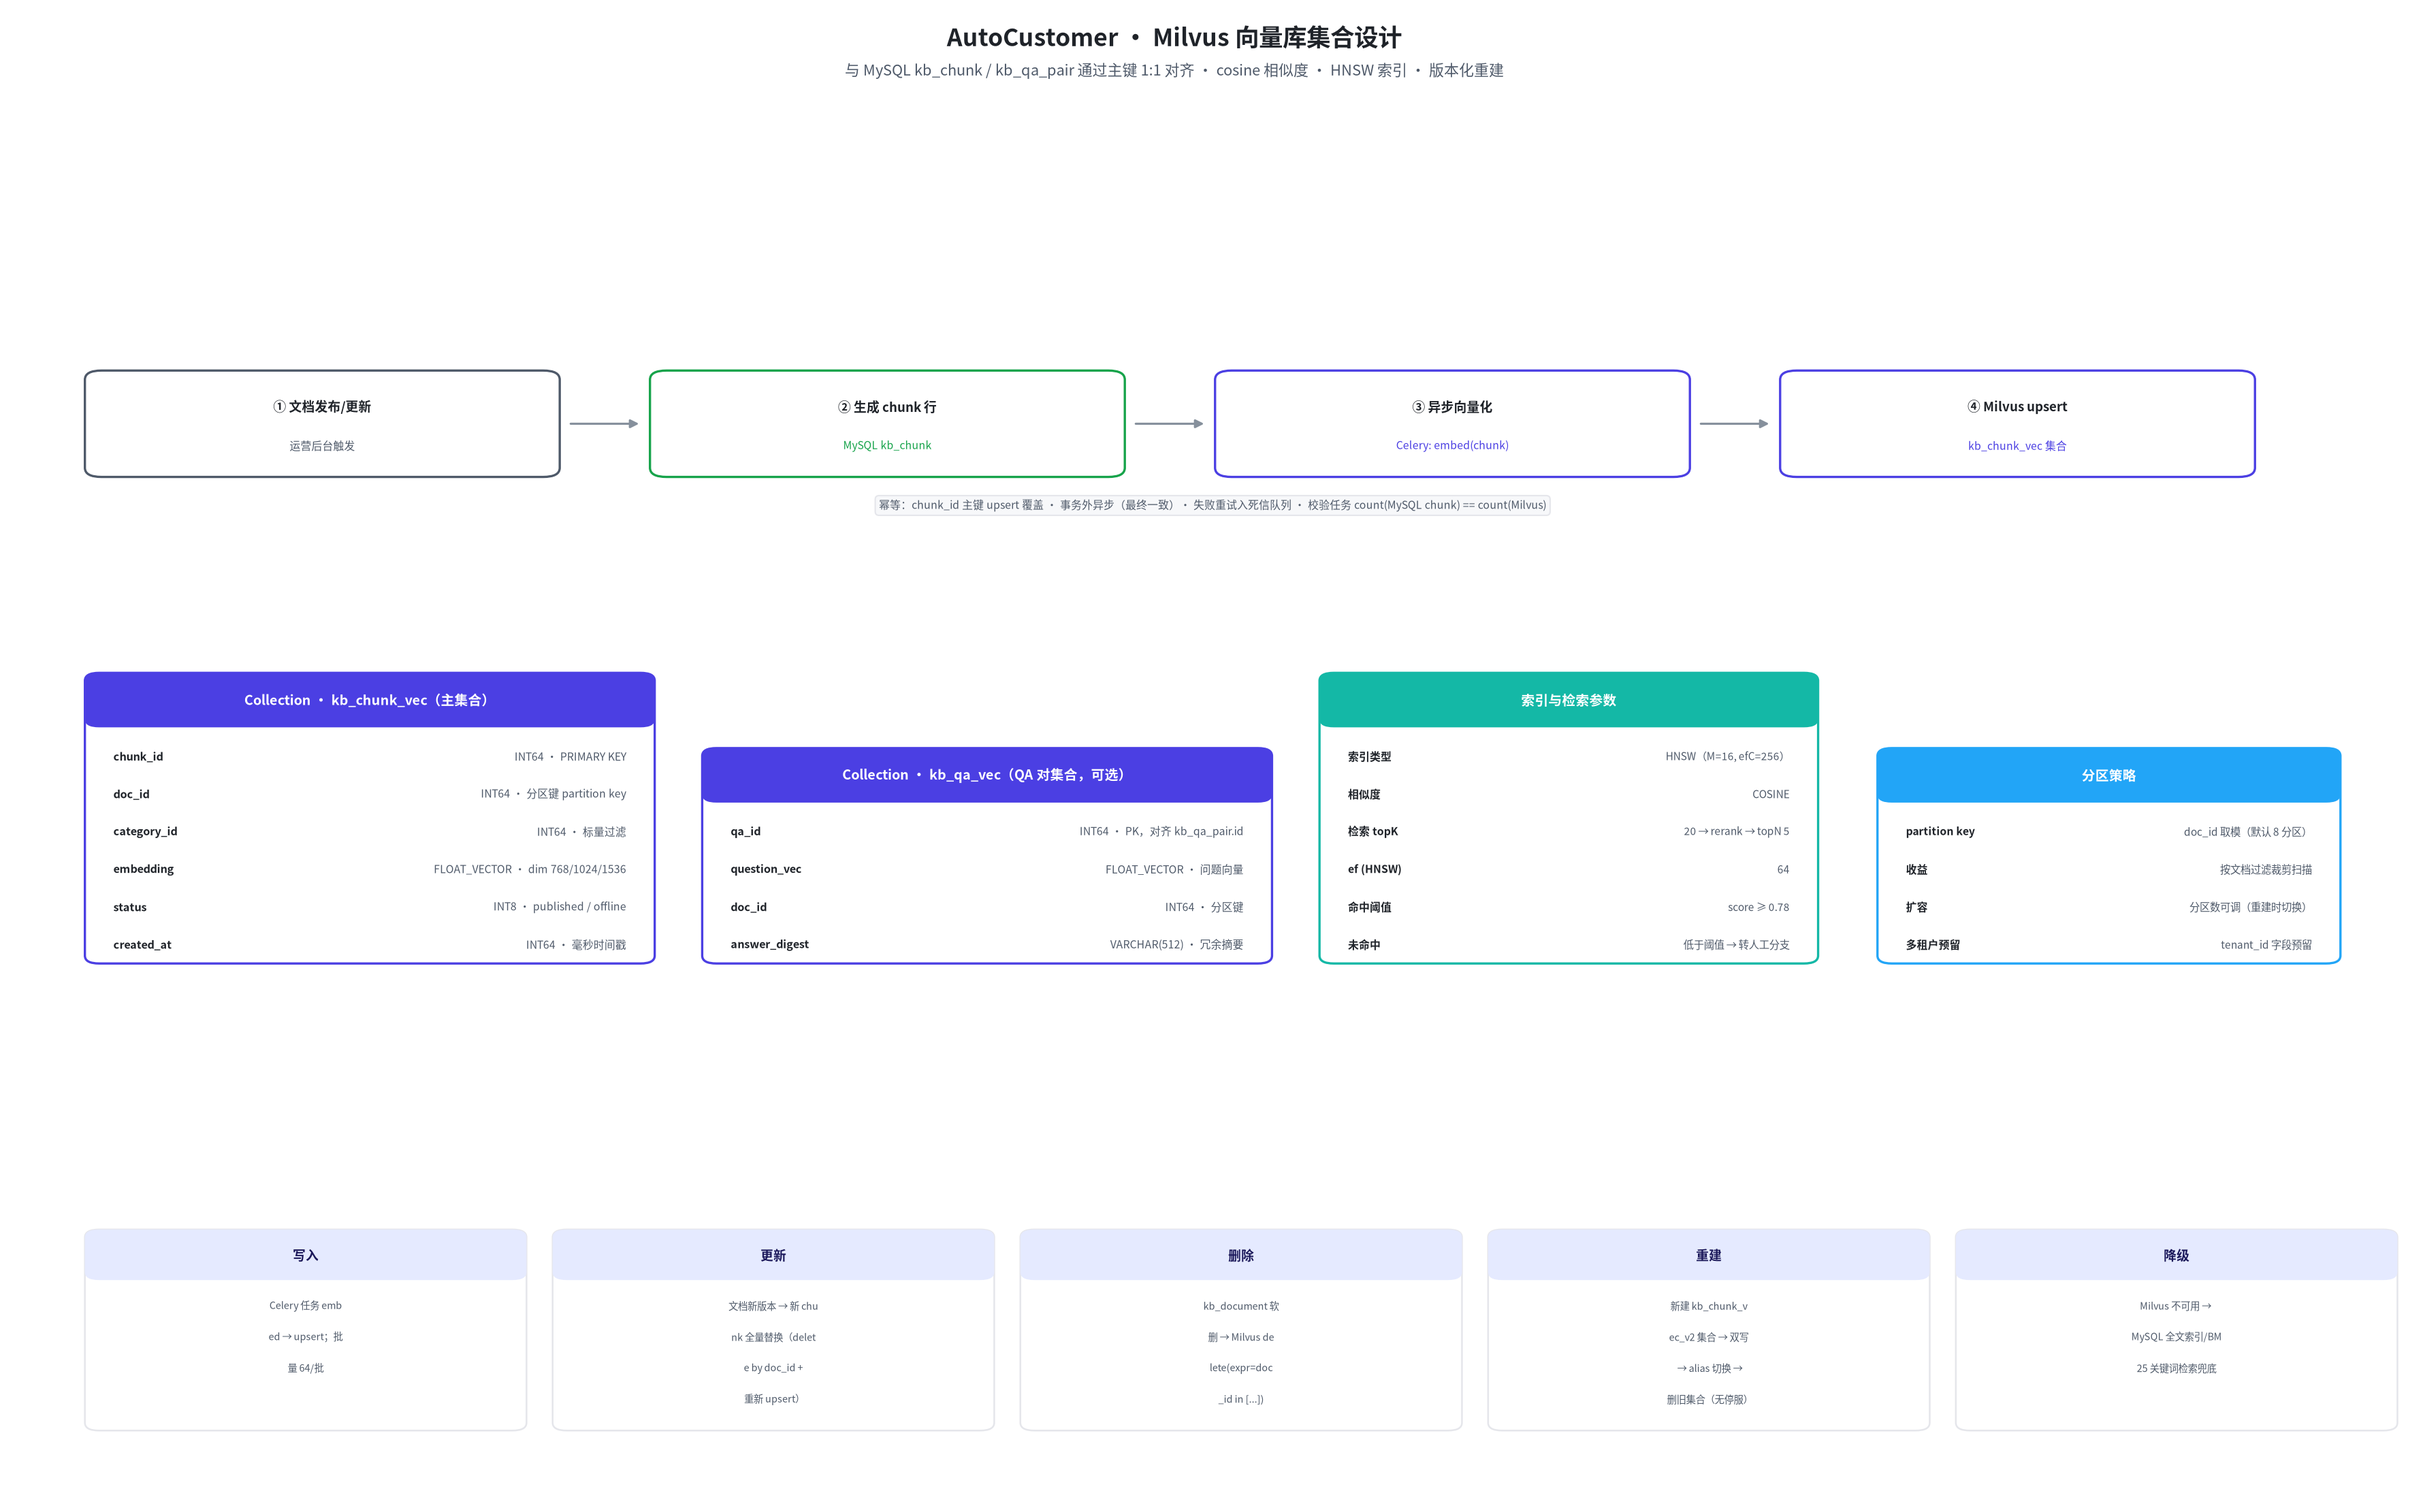
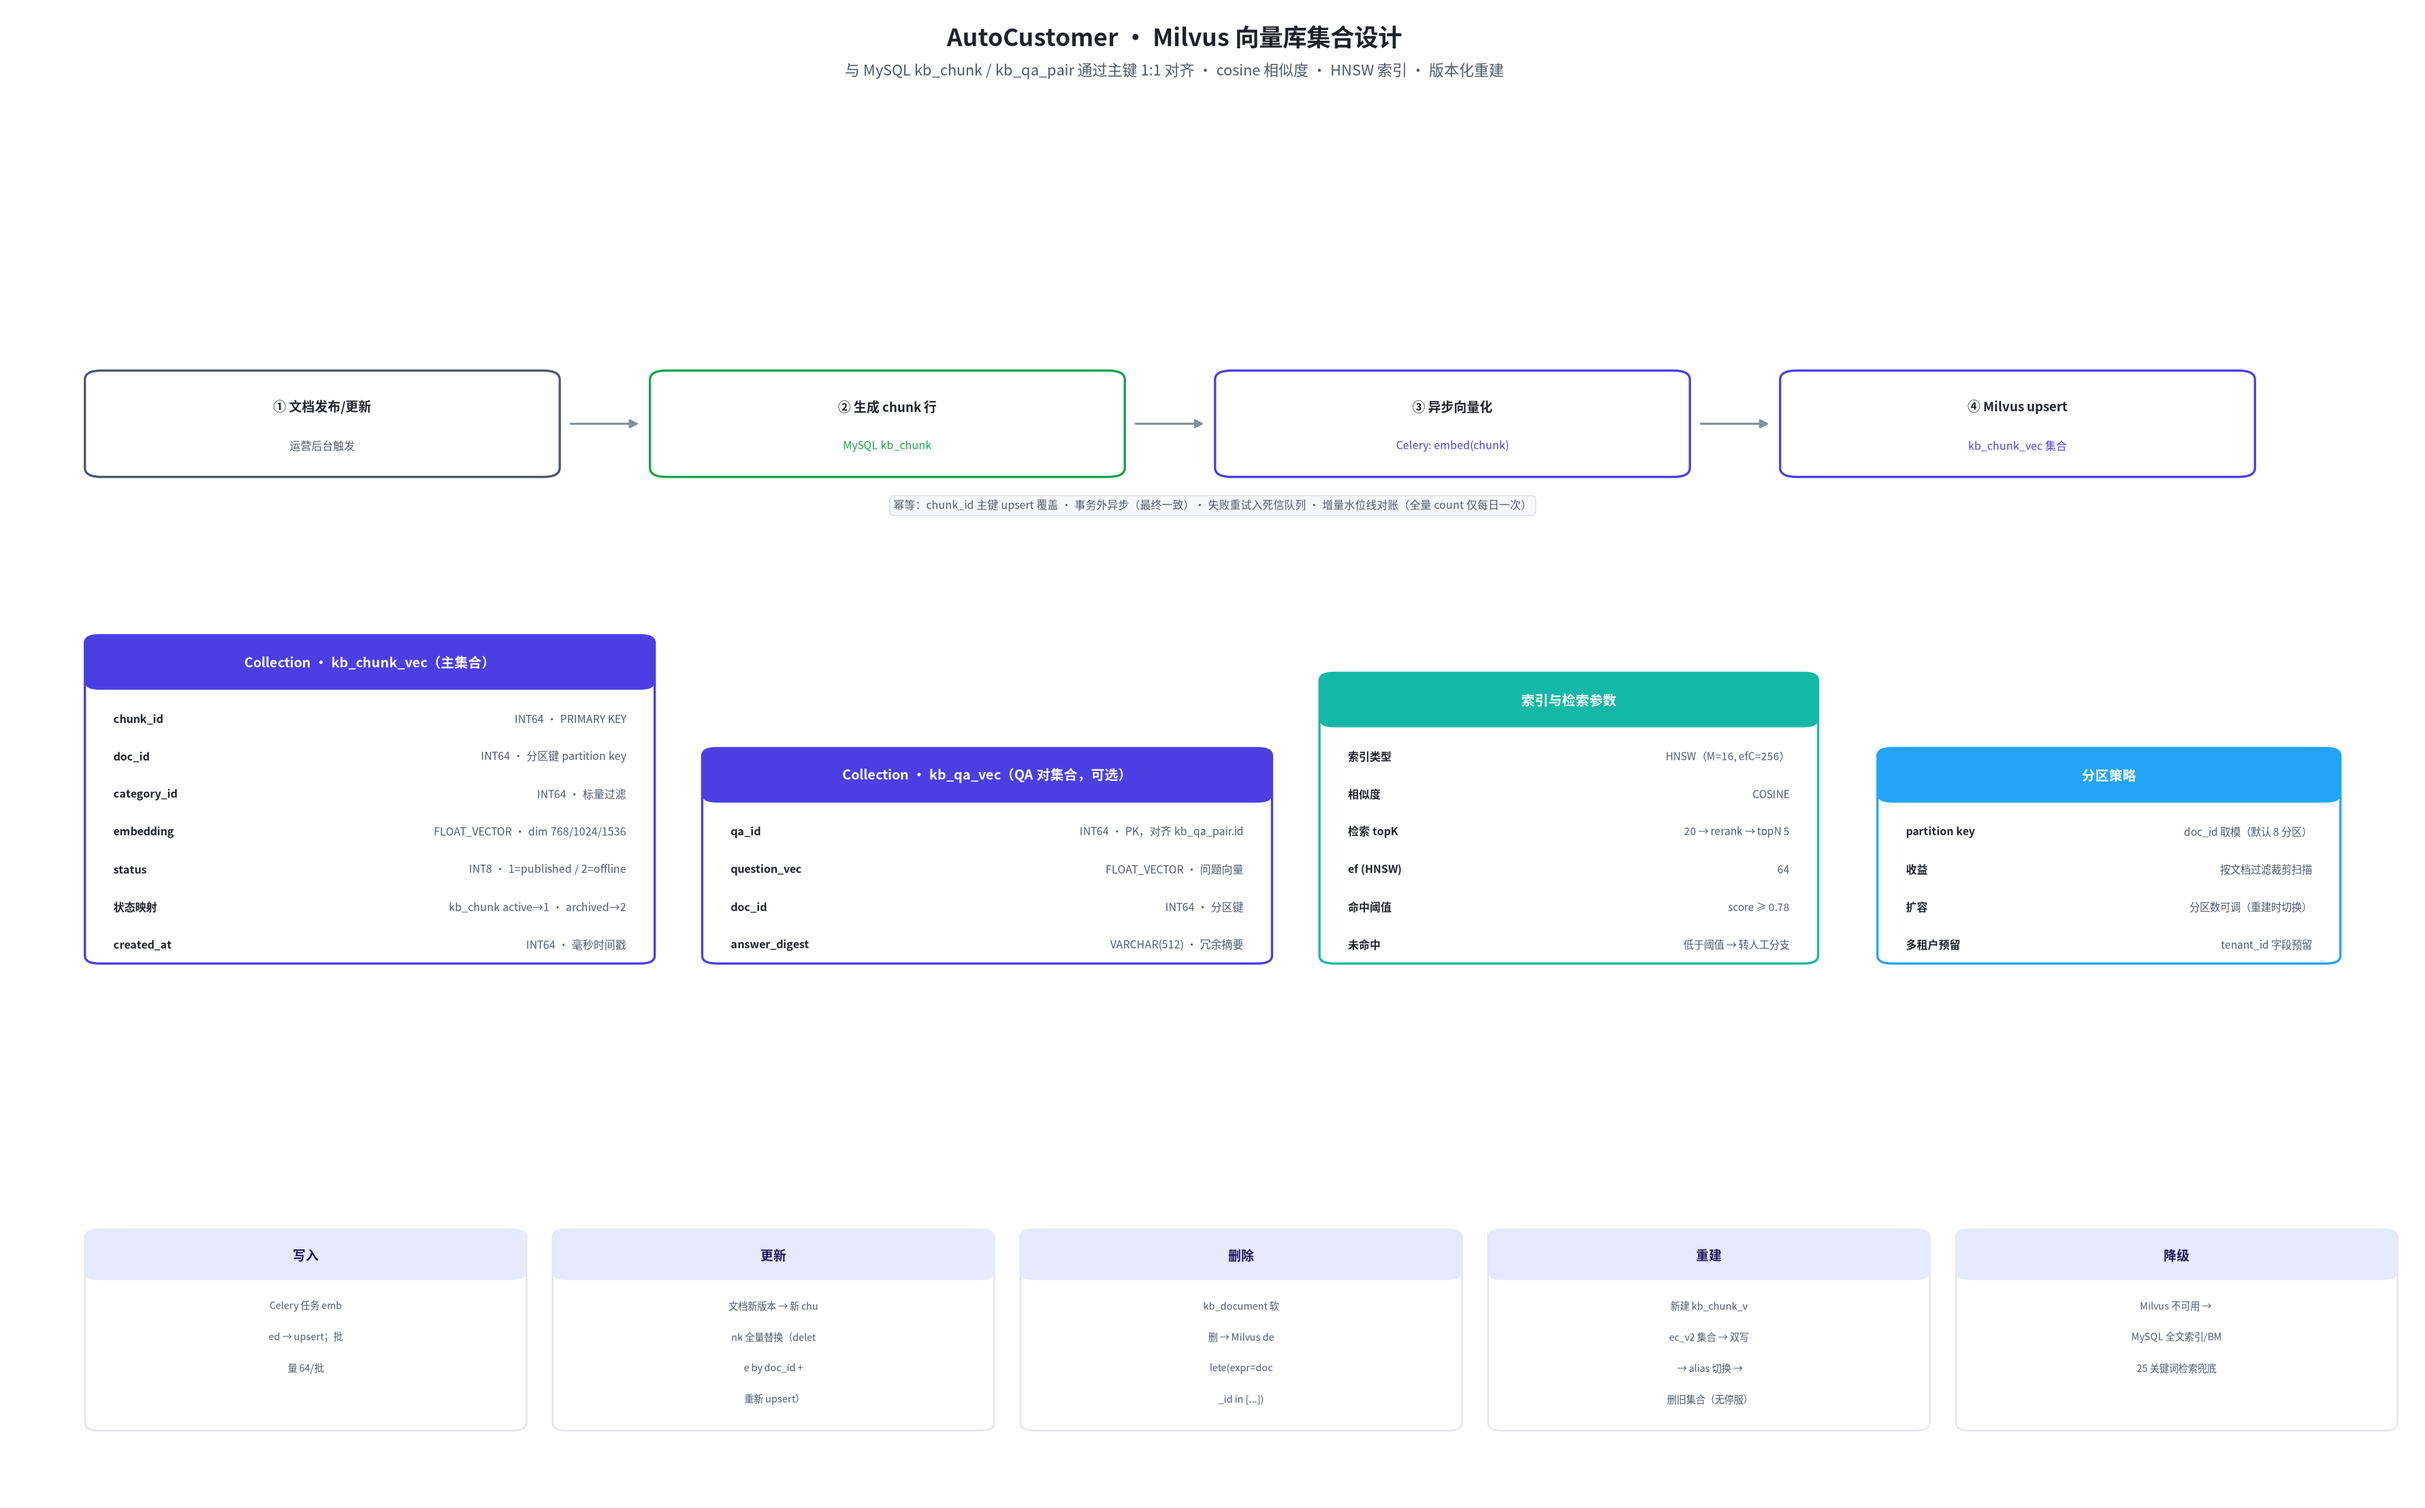
[design-update] 可行性评审修正：SSE ticket 鉴权、argon2-cffi、Milvus 增量对账与状态映射、ER 图去重边
- backend/frontend: 新增 SSE/WS 一次性 ticket 换票鉴权（EventSource/WebSocket 无法携带 Authorization header）
- backend: 认证库 passlib[argon2] → argon2-cffi（passlib 1.7.4 停更且依赖已移除的 crypt 模块）
- 02-database: Milvus 对账改为 Redis 增量水位线（全量 count 仅每日一次）；补充 MySQL↔Milvus 状态映射（active→published / archived→offline）
- gen_er_diagram.py: 去除 chat_message→chat_retrieval_log 重复关系边；三张图重新生成

Changed region(s): [[0.0312, 0.405, 0.2805, 0.623], [0.3739, 0.3115, 0.6232, 0.3427]]

diff --git a/design/scripts/gen_milvus_diagram.py b/design/scripts/gen_milvus_diagram.py
@@ -58,7 +58,7 @@ def main():
                   color=C["ink3"], lw=1.5, style="-|>", ms=12, z=4)
 
     # 幂等与一致性标注
-    ax.text(50, sy - 2.2, "幂等：chunk_id 主键 upsert 覆盖 · 事务外异步（最终一致）· 失败重试入死信队列 · 校验任务 count(MySQL chunk) == count(Milvus)",
+    ax.text(50, sy - 2.2, "幂等：chunk_id 主键 upsert 覆盖 · 事务外异步（最终一致）· 失败重试入死信队列 · 增量水位线对账（全量 count 仅每日一次）",
             ha="center", va="center", fontsize=7.6, color=C["ink2"], zorder=5,
             bbox=dict(boxstyle="round,pad=0.35", fc=C["bg"], ec=C["border"]))
 
@@ -70,7 +70,8 @@ def main():
         ("doc_id", "INT64 · 分区键 partition key"),
         ("category_id", "INT64 · 标量过滤"),
         ("embedding", "FLOAT_VECTOR · dim 768/1024/1536"),
-        ("status", "INT8 · published / offline"),
+        ("status", "INT8 · 1=published / 2=offline"),
+        ("状态映射", "kb_chunk active→1 · archived→2"),
         ("created_at", "INT64 · 毫秒时间戳"),
     ], fs=7.8, row_h=2.9)
 

diff --git a/design/scripts/gen_backend_arch.py b/design/scripts/gen_backend_arch.py
@@ -58,7 +58,7 @@ def main():
         ("异步任务", "Celery + Redis"),
         ("向量库", "pymilvus"),
         ("HTTP 客户端", "httpx (LLM/Embedding)"),
-        ("认证", "PyJWT · passlib[argon2]"),
+        ("认证", "PyJWT · argon2-cffi"),
         ("可观测", "structlog · OTel SDK"),
         ("测试", "pytest · pytest-asyncio"),
     ]
@@ -156,7 +156,7 @@ def main():
             fontweight="bold", color=C["ink"], zorder=5)
     steps = [
         ("① WS/SSE 连接", "网关 → Uvicorn", C["ink2"]),
-        ("② 中间件链", "RequestID → 限流 → 鉴权", C["ink2"]),
+        ("② 中间件链", "RequestID → 限流 → JWT/ticket 鉴权", C["ink2"]),
         ("③ 依赖注入", "get_db·get_current_user·require_perm", "#22A5F7"),
         ("④ ChatService", "上下文组装 + Query 改写", "#22A5F7"),
         ("⑤ 领域策略", "阈值判定·命中/未命中分支", C["brand"]),

diff --git a/design/scripts/gen_er_diagram.py b/design/scripts/gen_er_diagram.py
@@ -320,7 +320,6 @@ RELATIONS = [
     ("sys_user", "b", "agent_profile", "t", "1:1", "cross"),
     ("sys_user", "r", "kb_document", "l", "创建人 1:N", "cross"),
     ("chat_session", "r", "human_ticket", "l", "1:N", "cross"),
-    ("chat_message", "r", "chat_retrieval_log", "l", "检索引用", "cross"),
 ]
 
 

diff --git a/design/01-architecture/backend.md b/design/01-architecture/backend.md
@@ -16,7 +16,7 @@
 | 异步任务 | Celery 5 + Redis（broker/backend） | 5.3+ | 向量化/统计/超时扫描等离线流水线 |
 | 向量库 | pymilvus | 2.4+ | Milvus SDK |
 | HTTP 客户端 | httpx（AsyncClient） | 0.27+ | 调 LLM/Embedding/Rerank，支持流式 |
-| 认证 | PyJWT + passlib[argon2] | | JWT 双 Token + argon2id 密码哈希 |
+| 认证 | PyJWT + argon2-cffi | | JWT 双 Token + argon2id 密码哈希；直用 argon2-cffi（passlib 1.7.4 自 2020 停更，且依赖 Python 3.13 已移除的 `crypt` 模块） |
 | 日志 | structlog | | 结构化 JSON，request_id 贯穿 |
 | 追踪/指标 | OpenTelemetry SDK + Prometheus | | OTLP 导出 |
 | 测试 | pytest + pytest-asyncio + httpx | | 单测/集成/E2E 分层 |
@@ -60,7 +60,7 @@ backend/
 │  │     ├─ auth.py           # 登录/刷新/登出/2FA
 │  │     ├─ users.py  roles.py  permissions.py  menus.py  depts.py
 │  │     ├─ chat.py           # REST 会话管理
-│  │     ├─ chat_stream.py    # SSE 流式对话 + WebSocket 端点
+│  │     ├─ chat_stream.py    # SSE 流式对话 + WebSocket 端点 + stream-ticket 换票
 │  │     ├─ kb.py             # 分类/文档/分片/导入任务
 │  │     ├─ tickets.py        # 工单分配/回复/流转
 │  │     ├─ reports.py        # 统计看板/导出
@@ -114,7 +114,12 @@ async def publish_document(
 ### 4.2 流式对话（SSE 为主，WS 备用）
 
 - **SSE** `GET /api/v1/chat/stream`：`StreamingResponse`，httpx 异步迭代 LLM token → `yield f"data: {json}\n\n"`，前端打字机效果；断线用 `Last-Event-ID` 续传（Redis 暂存最近 N 条）。
-- **WebSocket** `/api/v1/ws/chat`：需要客户端上行打断/心跳的场景；消息信封 `{type, seq, payload}`。
+- **SSE 鉴权（ticket 换票）**：浏览器 `EventSource` **无法携带 `Authorization` header**，流式端点不走 JWT header：
+  - `POST /api/v1/chat/stream-ticket`（常规 JWT header 鉴权，body `{session_id}`）→ 签发一次性 ticket（`secrets.token_urlsafe` 256bit，Redis `sse:ticket:{t}` TTL 30s，值绑定 user_id + session_id，校验即删）；
+  - `GET /api/v1/chat/stream?ticket=...` 凭 ticket 建流：短时效 + 单次使用，泄漏窗口极小；
+  - 断线重连不依赖 EventSource 自动重连（ticket 已消耗）：前端 `onerror` 重新换票，携 `last_event_id` 查询参数重建连接；后端 `Last-Event-ID` 同时接受 header 与 query 两种来源；
+  - 备选方案 fetch + ReadableStream 可带 header 直连，但需自实现重连与打字机缓冲，不作主方案。
+- **WebSocket** `/api/v1/ws/chat`：需要客户端上行打断/心跳的场景；消息信封 `{type, seq, payload}`；浏览器 WebSocket 同样无法自定义 header，握手前用同一 ticket 机制换取连接。
 - LLM 调用超时 30s 熔断，失败自动降级备用 Provider，再失败回兜底模板 + 转人工卡片。
 
 ### 4.3 RAG 编排（rag_service.py，可被 chat/搜索复用）
@@ -173,4 +178,5 @@ query → 查询改写(LLM，可选) → Milvus topK=20(cosine, filter status=pu
 
 | 日期 | 变更 |
 |---|---|
+| 2026-08-20 | 可行性评审修正：认证库换为 argon2-cffi（passlib 停更且依赖已移除的 crypt 模块）；新增 SSE/WS ticket 换票鉴权设计（EventSource/WebSocket 无法携带 Authorization header） |
 | 2026-08-19 | 初版：确定 Python + FastAPI 技术栈、五层架构、目录结构、SSE 流式与 RAG 编排方案 |

diff --git a/design/02-database/README.md b/design/02-database/README.md
@@ -338,7 +338,7 @@ id / ticket_id / from_agent_id / to_agent_id / action(assign/transfer/claim/esca
 | doc_id | INT64 | **partition key**（默认 8 分区，按文档裁剪扫描） |
 | category_id | INT64 | 标量过滤（按分类检索） |
 | embedding | FLOAT_VECTOR | dim 由 Embedding 模型决定（768/1024/1536），**同集合不可混 dim** |
-| status | INT8 | published/offline，检索表达式过滤 |
+| status | INT8 | 1=published（可检索） 2=offline（检索表达式过滤 `status == 1`）；与 MySQL `kb_chunk.status` 映射：active→1、archived→2 |
 | created_at | INT64 | 毫秒时间戳 |
 
 ### 9.3 索引与检索参数
@@ -360,7 +360,8 @@ id / ticket_id / from_agent_id / to_agent_id / action(assign/transfer/claim/esca
 
 - **写入**：批量 64/批；失败重试 3 次入死信队列，`embedding_status=failed` 可手工重跑
 - **更新**：文档新版本 → `delete(expr="doc_id in [...]")` + 重新写入，版本号乐观锁防并发
-- **对账**：Celery Beat 每小时校验 `count(MySQL active chunk) == count(Milvus published)`，不一致告警
+- **状态映射**：同步任务统一转换 `kb_chunk.status`（1=active / 2=archived）→ Milvus `status`（1=published / 2=offline）；文档下线/归档时按映射改写 Milvus 标量，检索表达式统一过滤 `status == 1`
+- **对账（增量水位线，避免全量 count 慢查询）**：Redis 维护水位线 `milvus:reconcile:watermark`（已对账最大 chunk_id）；Celery Beat 每小时仅校验增量区间——MySQL `count(id > 水位线 AND embedding_status = done)` vs Milvus `query(expr="chunk_id > 水位线")` 计数，一致则前移水位线；全量 `count()` 对账仅在每日凌晨 / 部署后首次 / 人工触发时执行；不一致告警并自动补偿（缺失 chunk 重新入队向量化）
 - **重建**：新建 `kb_chunk_vec_v2` → 双写 → **alias 切换** → 删除旧集合，全程无停服
 - **降级**：Milvus 不可用时自动切 MySQL 全文索引（ngram）关键词检索兜底
 
@@ -378,4 +379,5 @@ id / ticket_id / from_agent_id / to_agent_id / action(assign/transfer/claim/esca
 
 | 日期 | 变更 | 关联 |
 |---|---|---|
+| 2026-08-20 | 可行性评审修正：对账改为增量水位线（全量 count 仅每日一次）；补充 MySQL↔Milvus 状态映射规则（active→published、archived→offline） | ER 图去重边、Milvus 图 v2 |
 | 2026-08-19 | 初版：29 表 / 6 域 + Milvus 双集合设计 | ER 图 v1 |

diff --git a/design/01-architecture/frontend.md b/design/01-architecture/frontend.md
@@ -57,7 +57,7 @@ apps/admin-console/
 | 场景 | 协议 | 要点 |
 |---|---|---|
 | 常规 CRUD | axios（@auto/api 统一封装） | 拦截器：注入 JWT / 401 静默刷新 / 统一错误 toast |
-| 流式对话 | **SSE（EventSource）** | `data:` 帧 `{delta, done, msg_id}`；断线 Last-Event-ID 续传 |
+| 流式对话 | **SSE（EventSource）** | `data:` 帧 `{delta, done, msg_id}`；鉴权走一次性 ticket：先 `POST /chat/stream-ticket`（JWT header）换票，再带 `?ticket=` 建流——EventSource 无法携带 Authorization header；断线由 `onerror` 重新换票 + `last_event_id` 参数重建（不依赖自动重连） |
 | 坐席实时工单 | WebSocket | 心跳 30s，指数退避重连，消息信封 `{type, seq, payload}` |
 
 ## 6. 质量门禁
@@ -71,4 +71,5 @@ apps/admin-console/
 
 | 日期 | 变更 |
 |---|---|
+| 2026-08-20 | 可行性评审修正：流式对话补充 ticket 换票鉴权与断线重连约定 |
 | 2026-08-19 | 初版：双工程 monorepo、动态路由权限、SSE/WS 协议约定 |

diff --git a/design/README.md b/design/README.md
@@ -86,4 +86,5 @@ design/
 
 | 日期 | 变更 | 影响文档 |
 |---|---|---|
+| 2026-08-20 | 可行性评审修正：SSE/WS ticket 换票鉴权、argon2-cffi 替换 passlib、Milvus 增量水位线对账 + 状态映射、ER 图去除 chat_message→chat_retrieval_log 重复边 | 01/02/03 全部 |
 | 2026-08-19 | v1 初版：FastAPI 后端架构、MySQL 29 表 ER + Milvus 双集合、丰富 RBAC（10 角色）设计全部落盘 | 全部 |
